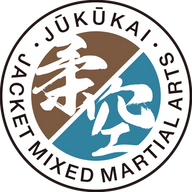
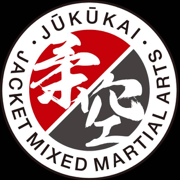
ファビコンを柔空会ロゴに変更

diff --git a/SPEC.md b/SPEC.md
@@ -2,7 +2,7 @@
 
 > **このドキュメントについて**
 > 開発の進捗に合わせて随時更新すること。新機能追加・仕様変更・廃止した機能は必ずこのドキュメントに反映する。
-> 最終更新: 2026-03-25（古いChrome互換性対応: @layer除去・color-mix fallback・lang/フォント修正）
+> 最終更新: 2026-03-25（ファビコンを柔空会ロゴに変更）
 
 ---
 
